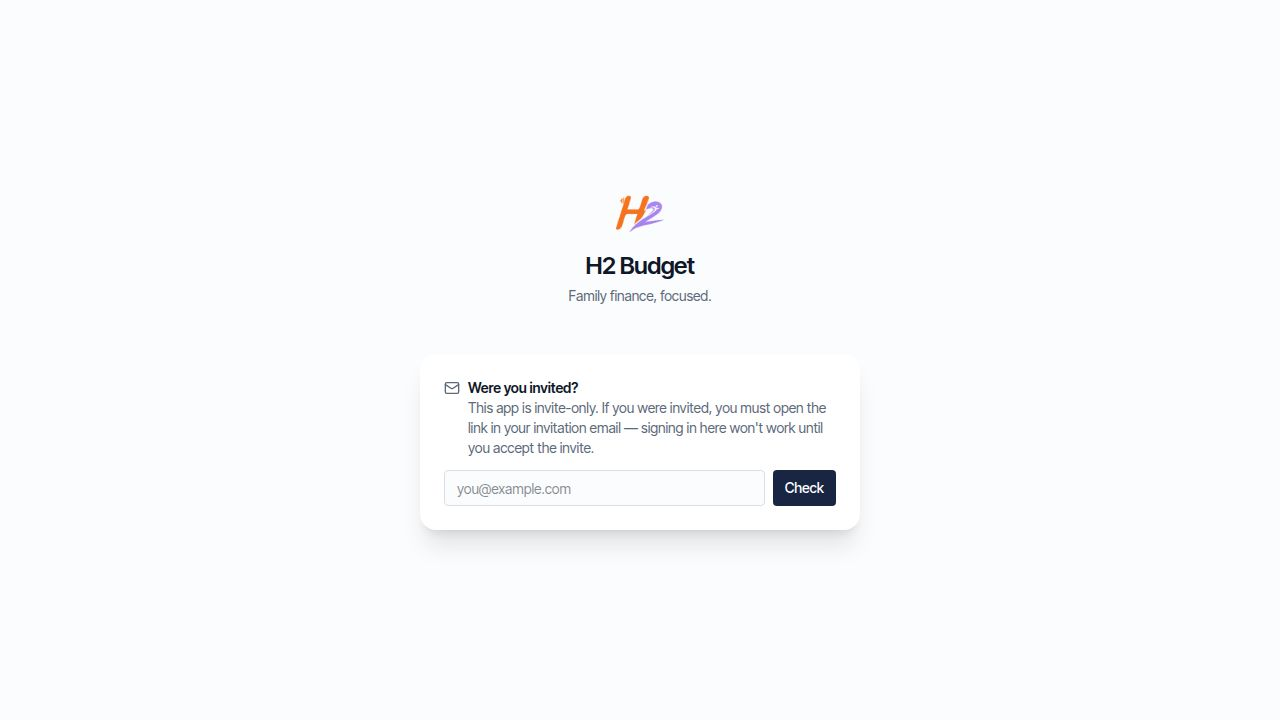
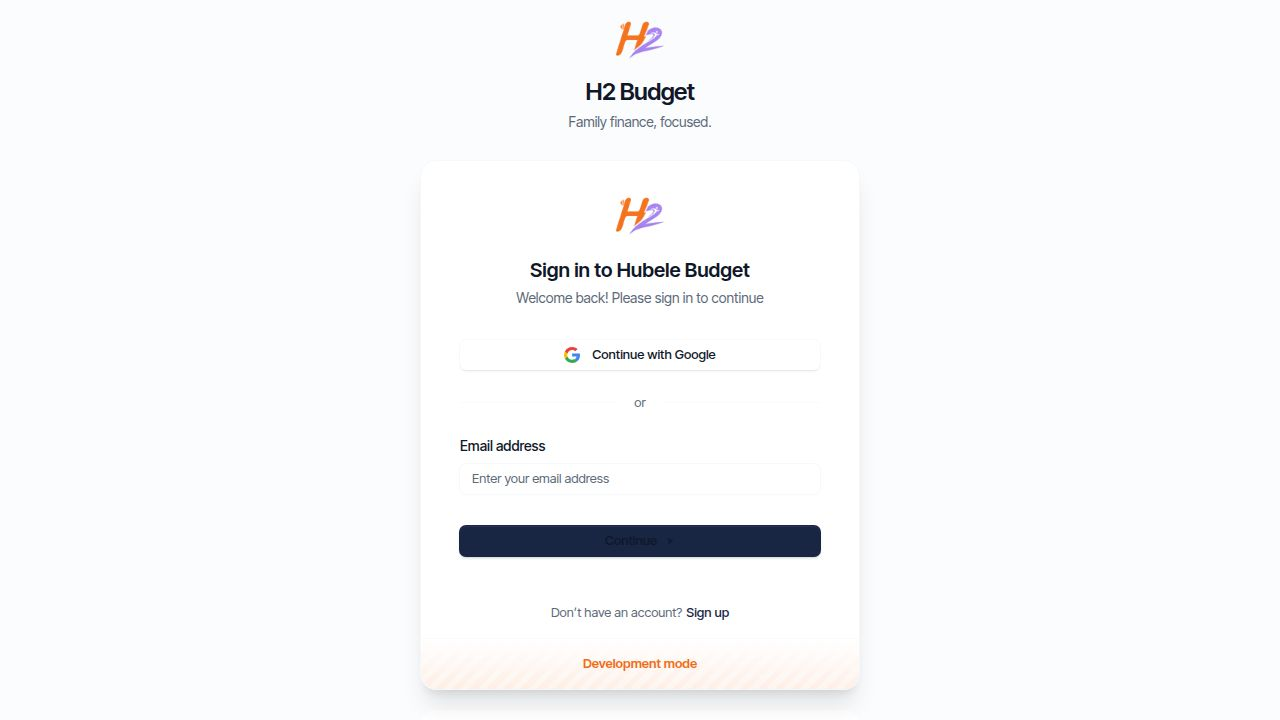
Add e2e test for pinned inbox stays visible while scrolling forecast (#518)
Adds artifacts/h2budget/e2e/forecast-pinned-inbox-sticky-on-scroll.spec.ts,
locking in the behavior added by task #517 (pinned unmatched inbox card
on the Forecast → Active Register tab).

The new spec:
- Sizes the viewport tall+wide (1280x800) so canPinInbox engages
  (the page guards pin behavior behind a min-height:720, min-width:768
  media query).
- Seeds 18 monthly recurring bills + 1 unmatched manual bank txn so
  the planned list overflows and the inbox card has exactly one
  pending row, keeping pager assertions stable.
- Asserts pinned-inbox-area is visible with data-pinned="true" and
  contains a visible bank-inbox-pager and active inbox card.
- Captures the pinned region's viewport top before scrolling, then
  scrolls the app shell's <main> element (the actual scroll
  container — window scroll is not used here) by 1500px, and asserts:
  - The pinned region, pager, and active card stay visible.
  - Its viewport top stays in the upper half of the viewport (>=0,
    < viewportHeight/2).
  - Its top is well above the no-sticky baseline
    (before.pinnedTop - mainScrollTop) by >200px, proving sticky
    actually engaged rather than scrolling away.
- Resolves the only pending row via the pinned region's "Unplanned"
  button and asserts pinned-inbox-area unmounts entirely (no empty
  pinned bar left behind) and the empty-state copy returns.

No production code changes.

Replit-Task-Id: 156453b9-48cb-41e5-a235-f233a6d1a71c

diff --git a/artifacts/h2budget/e2e/forecast-pinned-inbox-sticky-on-scroll.spec.ts b/artifacts/h2budget/e2e/forecast-pinned-inbox-sticky-on-scroll.spec.ts
@@ -1,0 +1,269 @@
+import { test, expect, type Page } from "@playwright/test";
+import {
+  cleanupTestUsers,
+  createTestUser,
+  signInAndOpen,
+} from "./helpers/clerk";
+
+/**
+ * End-to-end coverage for task #518:
+ *
+ * Task #517 pinned the unmatched inbox card area on the Forecast → Active
+ * Register tab so it stays visible while the planned-items list scrolls
+ * underneath it (data-testid `pinned-inbox-area` with
+ * `data-pinned="true"` on tall+wide viewports). This spec locks in that
+ * pin behavior:
+ *   - With one unmatched bank inbox row plus enough planned forecast items
+ *     to make the page scroll, the pinned region — including its pager
+ *     (`bank-inbox-pager`) and the active inbox card — stays visible at
+ *     the top of the viewport (just below the page's own sticky header)
+ *     after the user scrolls the page down.
+ *   - When the inbox empties (no unmatched rows left), the pinned area
+ *     unmounts entirely so no empty pinned bar lingers.
+ */
+
+const provisionedUserIds: string[] = [];
+
+test.afterAll(async () => {
+  await cleanupTestUsers(provisionedUserIds);
+});
+
+type ApiResult<T> =
+  | { ok: true; status: number; body: T }
+  | { ok: false; status: number; body: unknown };
+
+async function apiCall<T>(
+  page: Page,
+  method: string,
+  path: string,
+  body?: unknown,
+): Promise<T> {
+  const result = await page.evaluate(
+    async (args): Promise<ApiResult<T>> => {
+      const res = await fetch(args.path, {
+        method: args.method,
+        credentials: "include",
+        headers: { "content-type": "application/json" },
+        body: args.body == null ? undefined : JSON.stringify(args.body),
+      });
+      let parsed: unknown = null;
+      const text = await res.text();
+      if (text) {
+        try {
+          parsed = JSON.parse(text);
+        } catch {
+          parsed = text;
+        }
+      }
+      if (!res.ok) {
+        return { ok: false, status: res.status, body: parsed };
+      }
+      return { ok: true, status: res.status, body: parsed as T };
+    },
+    { method, path, body },
+  );
+  if (!result.ok) {
+    throw new Error(
+      `API ${method} ${path} failed (${result.status}): ${JSON.stringify(result.body)}`,
+    );
+  }
+  return result.body;
+}
+
+function currentMonthDay(day: number): string {
+  const d = new Date();
+  const year = d.getFullYear();
+  const month = String(d.getMonth() + 1).padStart(2, "0");
+  return `${year}-${month}-${String(day).padStart(2, "0")}`;
+}
+
+test.describe("Forecast pinned inbox stays visible on scroll (#518)", () => {
+  test("pinned-inbox-area sticks below the page header while scrolling, and unmounts when the inbox empties", async ({
+    page,
+  }) => {
+    // (#517) The pin only engages on viewports that satisfy the
+    // `(min-height: 720px) and (min-width: 768px)` media query — short or
+    // narrow viewports keep the legacy non-pinned layout. We size the
+    // viewport tall+wide so `data-pinned="true"` is the path under test,
+    // and tall enough that there's real headroom to scroll past where the
+    // unpinned card would have left the viewport.
+    await page.setViewportSize({ width: 1280, height: 800 });
+
+    const { email, password } = await createTestUser(
+      "forecast-pinned-inbox-sticky-518",
+      provisionedUserIds,
+    );
+
+    await signInAndOpen(page, email, password, "/review");
+    await expect(page.getByTestId("card-from-bank")).toBeVisible({
+      timeout: 15_000,
+    });
+
+    // --- Seed enough planned items + one unmatched bank inbox row.
+    //
+    // Planned items: 18 monthly bills on different days of the current
+    // month. With distinct names + amounts none of them collide with the
+    // single unmatched bank txn we add below, so the inbox stays at
+    // exactly 1 pending row (which keeps the pager assertions stable).
+    // 18 rows is plenty to push the planned list below the fold on an
+    // 800px viewport.
+    const suffix = Math.random().toString(36).slice(2, 8);
+    const billCount = 18;
+    for (let i = 0; i < billCount; i++) {
+      const dayOfMonth = (i % 27) + 1;
+      await apiCall<{ id: string }>(page, "POST", "/api/recurring-items", {
+        name: `PinScroll-${suffix}-${i}`,
+        kind: "bill",
+        amount: (10 + i).toFixed(2),
+        frequency: "monthly",
+        dayOfMonth,
+        active: "true",
+      });
+    }
+
+    // One pending bank inbox row with an amount that does not match any
+    // of the seeded bills (bills are 10.00..27.00; this is 999.99). Manual
+    // rows with `forecastFlag: true` land in the Active Register inbox.
+    const unmatched = await apiCall<{ id: string }>(
+      page,
+      "POST",
+      "/api/transactions",
+      {
+        occurredOn: currentMonthDay(15),
+        description: `PIN-SCROLL-${suffix} UNMATCHED`,
+        amount: "-999.99",
+        forecastFlag: true,
+      },
+    );
+
+    await page.goto("/review");
+    await expect(page.getByTestId("card-from-bank")).toBeVisible({
+      timeout: 15_000,
+    });
+
+    const pinnedArea = page.getByTestId("pinned-inbox-area");
+    const pager = page.getByTestId("bank-inbox-pager");
+    const inboxCheckbox = page.getByTestId(`select-bank-${unmatched.id}`);
+
+    // --- The pinned region renders, in pinned mode, with the pager + the
+    // active inbox card visible. (`data-pinned="true"` proves the
+    // viewport-gated pin path is the one under test, not the legacy
+    // non-pinned fallback.)
+    await expect(pinnedArea).toBeVisible({ timeout: 15_000 });
+    await expect(pinnedArea).toHaveAttribute("data-pinned", "true");
+    await expect(pager).toBeVisible();
+    await expect(inboxCheckbox).toBeVisible();
+    await expect(page.getByTestId("bank-inbox-pager-indicator")).toHaveText(
+      "1 of 1",
+    );
+
+    // --- Capture the pinned region's natural on-screen position before
+    // we scroll. We compare this against its position *after* scrolling
+    // to prove it actually pinned (a non-sticky element would have moved
+    // up by ~the scroll delta and gone off-screen).
+    const measure = () =>
+      page.evaluate(() => {
+        const pinned = document.querySelector(
+          '[data-testid="pinned-inbox-area"]',
+        ) as HTMLElement | null;
+        const pagerEl = document.querySelector(
+          '[data-testid="bank-inbox-pager"]',
+        ) as HTMLElement | null;
+        const cardEl = document.querySelector(
+          '[data-testid="card-from-bank"]',
+        ) as HTMLElement | null;
+        const main = document.querySelector("main");
+        const pinnedRect = pinned?.getBoundingClientRect();
+        const pagerRect = pagerEl?.getBoundingClientRect();
+        return {
+          mainScrollTop: main?.scrollTop ?? 0,
+          mainScrollHeight: main?.scrollHeight ?? 0,
+          mainClientHeight: main?.clientHeight ?? 0,
+          viewportHeight: window.innerHeight,
+          pinnedTop: pinnedRect?.top ?? null,
+          pinnedBottom: pinnedRect?.bottom ?? null,
+          pagerTop: pagerRect?.top ?? null,
+          pagerBottom: pagerRect?.bottom ?? null,
+          cardPresent: !!cardEl,
+        };
+      });
+
+    const before = await measure();
+    expect(before.pinnedTop).not.toBeNull();
+    // Sanity: the planned list is tall enough to actually require
+    // scrolling — otherwise the "stays visible while scrolling"
+    // assertion below would be vacuously true.
+    expect(before.mainScrollHeight).toBeGreaterThan(
+      before.mainClientHeight + 400,
+    );
+
+    // --- Scroll the app shell well past where the inbox card would
+    // normally have left the viewport. The shell scrolls inside its
+    // `<main>` element (h-screen, overflow-y-auto), not the window, so
+    // drive that scroller directly.
+    await page.evaluate(() => {
+      const main = document.querySelector("main");
+      if (main) main.scrollTop = 1500;
+    });
+    await page.waitForTimeout(200);
+
+    const after = await measure();
+    // Confirm the scroll actually happened and was substantial. (If
+    // 1500 exceeded scrollHeight, the browser will clamp; either way
+    // we want at least 400px of scroll for the assertion to be
+    // meaningful.)
+    expect(after.mainScrollTop).toBeGreaterThan(400);
+
+    // --- The pinned region (and the pager + active inbox card inside
+    // it) is still visible after the scroll.
+    await expect(pinnedArea).toBeVisible();
+    await expect(pager).toBeVisible();
+    await expect(inboxCheckbox).toBeVisible();
+    expect(after.cardPresent).toBe(true);
+
+    // The smoking gun for "actually pinned": after scrolling the planned
+    // list down by hundreds of pixels, the pinned region's top edge is
+    // still in the upper portion of the viewport — i.e. its sticky
+    // `top:` offset clamped it in place. A non-sticky element with the
+    // same starting position would have moved up by ~`after.mainScrollTop`
+    // and ended up well off-screen (very negative top).
+    expect(after.pinnedTop).not.toBeNull();
+    expect(before.pinnedTop).not.toBeNull();
+    expect(after.pinnedTop as number).toBeGreaterThanOrEqual(0);
+    expect(after.pinnedTop as number).toBeLessThan(
+      after.viewportHeight / 2,
+    );
+    // Without sticky, scrolling by `after.mainScrollTop` would have
+    // pulled the pinned region's viewport top down by the same amount.
+    // Sticky should leave it well above that no-sticky baseline.
+    const noStickyExpectedTop =
+      (before.pinnedTop as number) - after.mainScrollTop;
+    expect(after.pinnedTop as number).toBeGreaterThan(
+      noStickyExpectedTop + 200,
+    );
+    // The pager + active card are within the visible viewport.
+    expect(after.pagerTop as number).toBeGreaterThanOrEqual(0);
+    expect(after.pagerBottom as number).toBeLessThanOrEqual(
+      after.viewportHeight,
+    );
+
+    // --- Empty-state: resolve the only pending row and assert the entire
+    // pinned region unmounts (no empty pinned bar left behind).
+    await page.evaluate(() => window.scrollTo(0, 0));
+    const unplannedBtn = pinnedArea.getByRole("button", {
+      name: /^unplanned$/i,
+    });
+    await expect(unplannedBtn).toBeVisible();
+    await unplannedBtn.click();
+
+    await expect(page.getByTestId("pinned-inbox-area")).toHaveCount(0, {
+      timeout: 10_000,
+    });
+    await expect(page.getByTestId("bank-inbox-pager")).toHaveCount(0);
+    // The Active Register's empty-state copy takes over (no lingering
+    // pinned bar).
+    await expect(page.getByTestId("card-from-bank")).toContainText(
+      /Send a bank transaction|Reconciled to bank/i,
+    );
+  });
+});